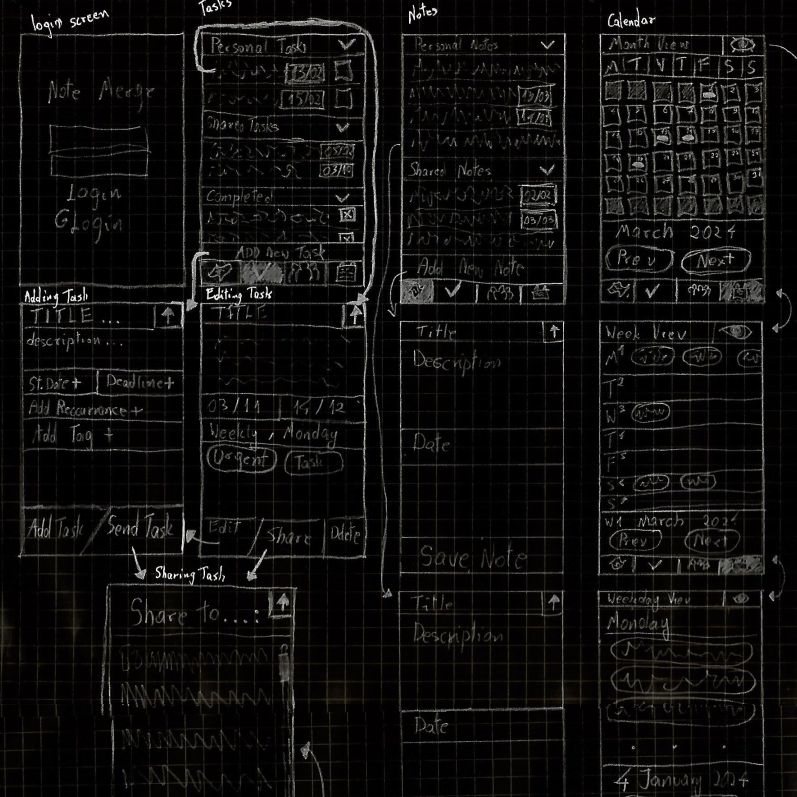
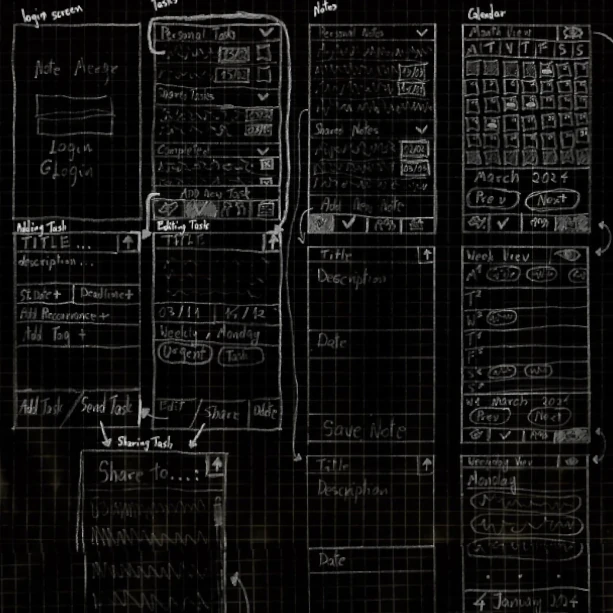
decreased image file size for performance

diff --git a/index.html b/index.html
@@ -17,7 +17,7 @@
 </head>
 	<body>
 		<nav id="navbar" class="navbar"></nav>
-		<section id="image-top" class="image-top"><h1 id="title-top" class="title-top"> Dawid Eret </h1></section>
+		<section id="image-top" class="image-top"><h1 id="title-top" class="title-top" defer> Dawid Eret </h1></section>
 		<div id="div-projects" class="div-projects">
 			<h1 id="projects-h1" class="projects-h1">Personal Projects</h1>
 			<section id="section-projects" class="section-projects">
@@ -27,7 +27,7 @@
 						<h2 id="card-h2" class="card-h2"> YouTube Channel </h2>
 					</div>
 					<div id="card-image" class="card-image">
-						<img id="card-image-img" class="card-image-img" src="assets/youtube.webp" alt="picture of the youtube channel homepage">
+						<img id="card-image-img" class="card-image-img" src="assets/youtube.webp" alt="picture of the youtube channel homepage" defer>
 					</div>
 					<div id="card-tagbar" class="card-tagbar">
 						<h2 id="tag-h2" class="tag-h2"> 2022 - (ongoing) </h2>
@@ -46,7 +46,7 @@
 						<h2 id="card-h2" class="card-h2"> NoteMerge [App] </h2>
 					</div>
 					<div id="card-image" class="card-image">
-						<img id="card-image-img" class="card-image-img" src="assets/notemerge.webp" alt="picture of the project sketch">
+						<img id="card-image-img" class="card-image-img" src="assets/notemerge.webp" alt="picture of the project sketch" defer>
 					</div>
 					<div id="card-tagbar" class="card-tagbar">
 						<h2 id="tag-h2" class="tag-h2"> April 2024 (wip) </h2>
@@ -64,7 +64,7 @@
 						<h2 id="card-h2" class="card-h2"> TypoChamp [Game] </h2>
 					</div>
 					<div id="card-image" class="card-image">
-						<img id="card-image-img" class="card-image-img" src="assets/typochamp.webp" alt="picture of the game">
+						<img id="card-image-img" class="card-image-img" src="assets/typochamp.webp" alt="picture of the game" defer>
 					</div>
 					<div id="card-tagbar" class="card-tagbar">
 						<h2 id="tag-h2" class="tag-h2"> 2023 Hackathon (24 hours) </h2>
